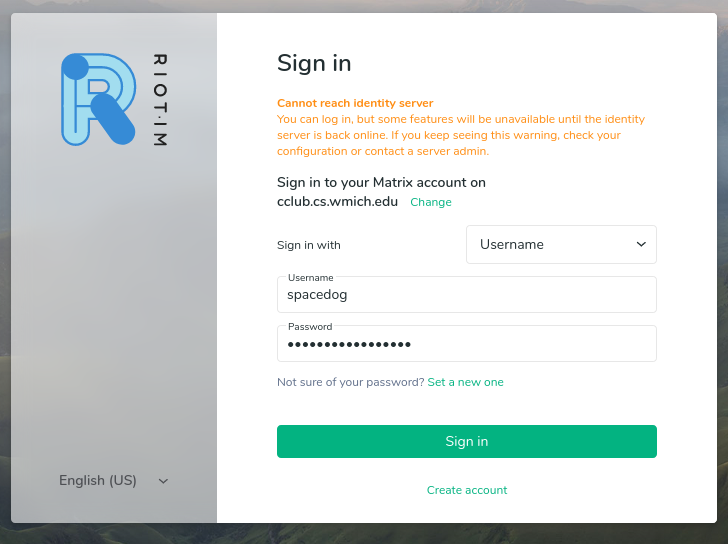
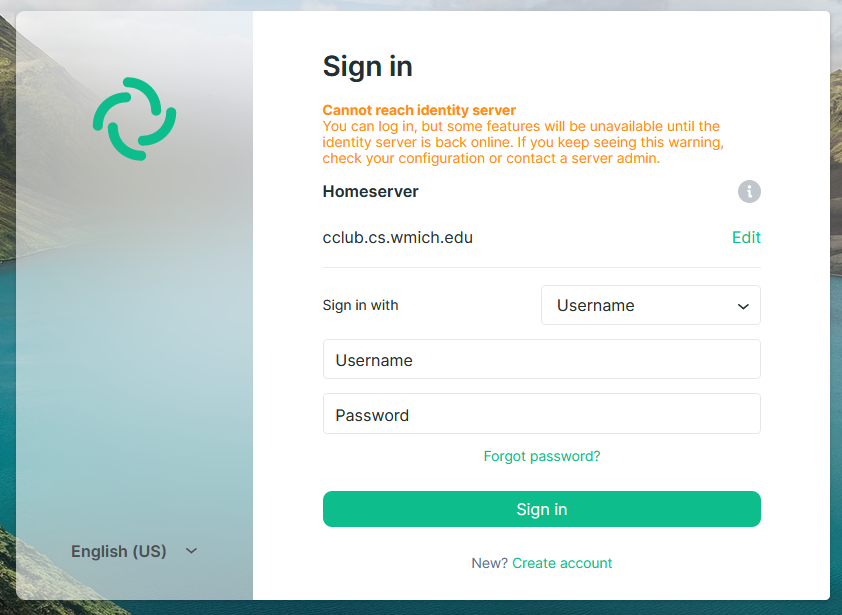
updated meeting information and new user guide

diff --git a/guide/index.html b/guide/index.html
@@ -9,8 +9,8 @@ title: Startup Guide
         <h1>Welcome!</h1>
     </br>
         <p>
-            Welcome to Computer Club at WMU. We're glad to have you, and hope that the club will prove to be an invaluable resource for you. Usually, 
-            set up is done in the physicial computer club room, but since we can't do that right now, here is a guide on how to get set up yourself.
+            Welcome to Computer Club at WMU. We're glad to have you, and hope that the club will prove to be an invaluable resource for you. 
+            Here is a guide on how to get set up.
         </p>
 
         <h1>
@@ -22,20 +22,20 @@ title: Startup Guide
             <ul>
                 <li>Chat</li>
                 <li>Wiki</li>
-                <li>Video/Voice Chat</li>
-                <li>Server Space</li>
-
+                <li>Access to our room in Kohrman Hall</li>
+                <li>Gaming PCs</li>
+                <li>Networking opportunities</li>
             </ul>
         </p>
         <p>
             To gain access to all of these features, you'll have to sign up for an account through our system. If you would like to sign up to join the club
-            email rso_cclub@wmich.edu and someone will be able to set you up with credentials to log in!
+            join us for a meeting in 2225 Kohrman hall Thursdays at 6pm! If you can't make it to a meeting, email rso_cclub@wmich.edu and we can set you up that way.
         </p>
 
         <h1>Chat</h1>
     </br>
         <p>
-            Computer Club self-hosts a chat service using the <a href="https://matrix.ord">matrix</a> protocol. Our chat server is hosted on a server that is held physically in WMU's engineering building.
+            Computer Club self-hosts a chat service using the <a href="https://matrix.org">matrix</a> protocol. Our chat is hosted on a server that is held in Floyd Hall, WMU's engineering building on the Parkview campus.
 
             The the open source client we use is called <a href="https://element.io">Element</a> but you may some times hear it called by previous names like Riot or Vector.
         </p>
@@ -43,7 +43,7 @@ title: Startup Guide
         <h2>Logging In</h2>
 
         <p>
-            There are multiple methods for logging into our chat, our website and a mobile app.
+            There are multiple methods for logging into our chat: our website, the Element desktop app, and the Element mobile app.
         </p>
 
         <h2>Via Our Website</h2>
@@ -87,10 +87,10 @@ title: Startup Guide
         <p>
             You can download the element app on your phone and log in from there.
 
-            <li>
-                <ul><a href="https://play.google.com/store/apps/details?id=im.vector.app&hl=en_US">Google Play</a></ul>
-                <ul><a href="https://apps.apple.com/us/app/element-previously-riot-im/id1083446067">App Store</a></ul>
-            </li>
+            <ul>
+                <li><a href="https://play.google.com/store/apps/details?id=im.vector.app&hl=en_US">Google Play</a></li>
+                <li><a href="https://apps.apple.com/us/app/element-previously-riot-im/id1083446067">App Store</a></li>
+            </ul>
 
             The setup is similar to the desktop app, you'll have to enter our homeserver URL.
 
@@ -133,13 +133,13 @@ title: Startup Guide
             public you'll have to log in at the top right side of the page
         </p>
 
-        <h1>Voice/Video Chat</h1>
+        <h1>Kohrman Hall</h1>
     </br>
-
         <p>
-            We also host an instantce of <a href="http://jitsi.org">jitsi</a> at https://clubmeetings.cs.wmich.edu where you can start a voice or video chat with other club members. When starting
-            a new room you will have to use your credentials to log in.
+            The Computer Club is lucky enough to have our own space on main campus, you can find it at 2225 Kohrman Hall. As a member you can have access to the room whenever you need it.
+            In our room you will find gaming PCs, gaming consoles, a work station with tools, a place to study, and many other things that are assets to students.
         </p>
+
 
     </div>
 </div>

diff --git a/index.html b/index.html
@@ -4,11 +4,8 @@ title: Home
 ---
 {% include header.html %}
 
-<div class="family photo">
-    <img  style="margin-top: 1px;" width="100%" height="100%" frameborder="0" 
-    src="/images/cclub family photo.jpg" alt="CClub family photo">
-</div>
-
+<a data-flickr-embed="true" href="https://www.flickr.com/photos/129058274@N06/albums/72157648511414994" title="Landing"><img src="https://live.staticflickr.com/65535/51583944297_c988c58014_z.jpg" 
+    width="100%" height="500" alt="Landing"></a><script async src="//embedr.flickr.com/assets/client-code.js" charset="utf-8"></script>
 
 
 <div class="content">

diff --git a/membership/index.html b/membership/index.html
@@ -5,7 +5,7 @@ title: Membership
 
 <div>
     <h1>Membership</h1>
-    <p>Join us at our meetings, 6pm Thursday on <a href="https://meet.google.com/yua-pkby-rbg">Google Meet</a>.
+    <p>Join us at our meetings, 6pm Thursday at 2225 Kohrman Hall</a>.
     The price for a yearly membership is $10. <br/>
     <br/>
     When you join you can get access to:
